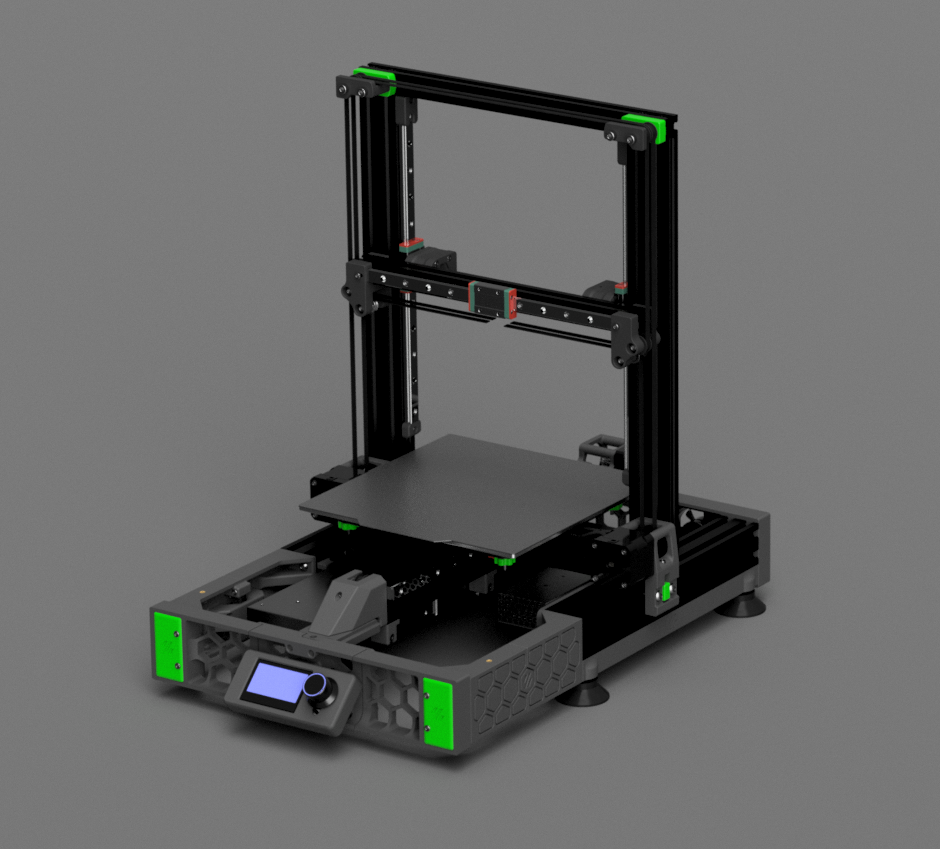
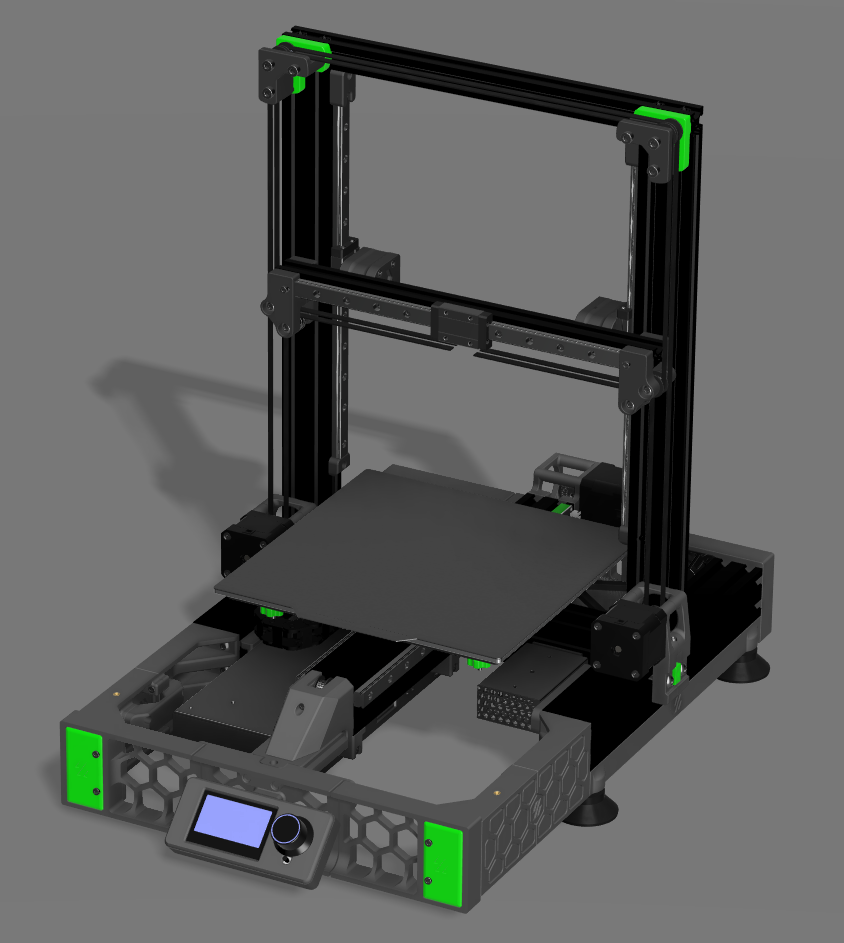
Feat: Upgrade Z-axis pulley mount for improved stability and longevity
- Redesigned the Z-axis pulley mount to reduce downward force along the
	  Z-axis, minimizing potential bending over time.
	- Enhances overall assembly stability and ensures more accurate
	  vertical movement.
    	- Improves durability and reduces long-term wear on the Z-axis
      	  mechanism.

diff --git a/README.md b/README.md
@@ -1,36 +1,35 @@
-# Ender 3 Pro - VSW (Work in progress)
+# Ender 3 Pro - VSW Conversion (Work in Progress)
 ![Ender 3 Pro - VSW](Images/Ender3Pro_VSW.png)
 
-This is a conversion based on the original [Ender 3 Pro Switchwire](https://github.com/boubounokefalos/Ender_SW).
+This project is a custom conversion based on the original [Ender 3 Pro Switchwire](https://github.com/boubounokefalos/Ender_SW).
 
-The Ender 3 Pro was my first printer with which I started my 3D printing adventure. There were good beginnings and some that are better not talked about, but only a miracle saved this printer from flying off the balcony. However, it is my only printer, so I couldn't let my emotions get carried away, after all there weren't that many problems with it.
+The Ender 3 Pro was my first 3D printer, marking the start of my journey in 3D printing. After a few years, I decided to push this machine to its limits. Drawing inspiration from other modification projects and the Voron series, I set out to make my own modifications. Everyone has different needs and ideas for improvement, and this project represents my personal take on enhancing this popular budget printer.
 
-After a few years I decided to 'squeeze' as much as I could out of this machine. Inspired by other modifications and the Voron series, I decided to do it myself, but a little differently. Everyone has different needs and everyone sees different improvements they can make. I want to show my vision for improving this popular budget printer.
+This is how the project came to life. I hope you enjoy reading about it, and perhaps you'll find some of my ideas useful for your own projects.
 
-This is how this project came about.
-I hope you enjoy reading this and maybe you will like one of my ideas and use it.
-The description will be mainly divided into two parts: main modifications and side modifications.
+The modifications are grouped into two categories: <b>Main Modifications</b> and <b>Side Modifications</b>.
 
 #### Main modifications:
-The biggest change, will be the design of 2 versions of the hotend:
-- [ ] Bowden system,
-- [ ] Direct system.
+The major changes focus on two designs for the hotend:
+- [ ] Bowden system
+- [ ] Direct system
 
-and cooling of the workpiece with air from outside the chamber:
-- [ ] Redesigning the chamber.
+Additionally, there are modifications for workpiece cooling using air from outside the chamber:
+- [ ] Redesigned chamber for improved airflow
 
-and other quite important modifications:
-- [x] Replacing the toothless GT2 pulley with a gear wheel,
-- [ ] Redesigning a BLTouch mount in place of the original Switchwire levelling.
+Other significant upgrades include:
+- [x] Replacing the smooth GT2 pulley with a geared pulley
+- [ ] Redesigning the BLTouch mount to replace the original Switchwire leveling system
 
 #### Side modifications:
-- [x] Change of Rasppery Pi mount for version 4 model B,
-- [x] BIGTREETECH BTT SKR Mini E3 model change from v2.0 to v3.0,
-- [x] Additional four supports in the middle of the table,
-- [x] Additional table insulation,
-- [ ] Removal of the cable chain for the Z axis.
+- [x] Upgraded Raspberry Pi mount for version 4 Model B
+- [x] Upgraded BIGTREETECH BTT SKR Mini E3 from v2.0 to v3.0
+- [x] Added four additional supports under the bed
+- [x] Added insulation to the bed for better heat retention
+- [ ] Removed the cable chain for the Z-axis
 
-In the future, I also plan to modify the hotend mount to make it compatible with, for example, the E3D V6, etc.
+#### Future Plans:
+In the future, I plan to modify the hotend mount to make it compatible with other popular hotends, such as the E3D V6.
 
 ## Directory structure
 | Directory            | Description                                                                        |
@@ -42,28 +41,25 @@ In the future, I also plan to modify the hotend mount to make it compatible with
 
 ## Main modifications
 ### Replacing the toothless GT2 pulley with a gear wheel
-A pulley without teeth can deform the belt teeth, which can cause inaccuracies in the hotend's movement in the XYZ axes. The best solution is to use a pulley with teeth matched to a suitable belt, in my case a GT2 belt.
+The original smooth pulley can cause the belt teeth to deform, leading to inaccuracies in the hotend's movement along the XYZ axes. To resolve this, I've switched to a geared pulley that matches the GT2 belt.
 
-The gears I purchased were larger in diameter than the previous ones, so it was not without modifications to other components in close contact to avoid collisions.
+However, the new pulleys are larger in diameter, necessitating modifications to nearby components to avoid collisions.
 
 #### Y-axis pulley
+For the Y-axis pulley, I'm considering upgrading to a wider belt and a more powerful stepper motor if any accuracy issues arise at higher speeds. These changes would provide greater stability and torque, ensuring consistent precision even during faster movements.
 | Before                                   | After                                  |
 |:----------------------------------------:|:--------------------------------------:|
 |![Before](Images/Y_axle_pulley_before.png)|![After](Images/Y_axle_pulley_after.png)|
 
 #### X-axis pulleys
-
-For the wheels mounted on the X-axle, only one wheel was changed and, in addition, the aluminium profile had to be slightly trimmed at a 45-degree angle. This is necessary to avoid collisions, as well as reworking more components to hold the GT2 belt vertically and horizontally.
-The second pulley remained unchanged, as the belt will rotate on it with the side without teeth.
-
-The left side of the X axis is made analogous to the right side.
+For the X-axis, I replaced one of the pulleys and had to trim the aluminum profile at a 45-degree angle to prevent collisions. The second pulley remained unchanged since the belt rotates on the smooth side.
 
 | Before                                   | After                                  |
 |:----------------------------------------:|:--------------------------------------:|
 |![Before](Images/X_axle_pulley_before.png)|![After](Images/X_axle_pulley_after.png)|
 
-#### Y-axis pulleys
-
+#### Z-axis pulleys
+The Z-axis pulley mount was redesigned to minimize the downward force along the Z-axis, which could cause the mount to bend over time. This change improves the overall stability and longevity of the assembly, ensuring more accurate movements and reducing wear.
 | Before                                   | After                                  |
 |:----------------------------------------:|:--------------------------------------:|
 |![Before](Images/Z_axle_pulley_before.png)|![After](Images/Z_axle_pulley_after.png)|
@@ -71,24 +67,24 @@ The left side of the X axis is made analogous to the right side.
 ## Side modifications
 
 ### Change of Rasppery Pi mount for version 4 model B
-Modifying the attachment of the Rasppery Pi 4 to the aluminium profiles gave more mounting options. In addition, the whole structure has been reinforced, as the previous one was not very flexible in my opinion.
+By redesigning the Raspberry Pi 4 mount to attach to the aluminum frame, I've increased the mounting flexibility and reinforced the overall structure.
 | Before                         | After                        |
 |:------------------------------:|:----------------------------:|
 |![Before](Images/Pi4_before.png)|![After](Images/Pi4_after.png)|
 
 ### BIGTREETECH SKR Mini E3 model change from v2.0 to v3.0,
-The BTT SKR Mini E3 v3.0 mount has also been reinforced.
+The mount for the SKR Mini E3 v3.0 has also been reinforced for added stability.
 | Before                                     | After                                    |
 |:------------------------------------------:|:----------------------------------------:|
 |![Before](Images/Btt_Skr_Mini_E3_before.png)|![After](Images/Btt_Skr_Mini_E3_after.png)|
 
 ### Additional four table supports
-Four supports in the central area under the table will improve stability and reduce the likelihood of the table warping due to temperature increases.
+To improve stability and minimize warping from heat, I added four supports beneath the bed.
 | Cross-section                                   | Assembling                                    |
 |:-----------------------------------------------:|:---------------------------------------------:|
 |![Cross-section](Images/Center_table_support.png)|![Assembling](Images/Center_table_supports.png)|
 
 ### Additional table insulation
-The additional insulation of the table will prevent the heat from underneath being transferred to the surroundings more quickly and will certainly reduce the energy consumption to maintain the temperature.
+Adding insulation beneath the bed will help retain heat and reduce energy consumption during printing.
 |:-----------------------------------------------:|
 |![Cross-section](Images/Table_insulation.png)|
